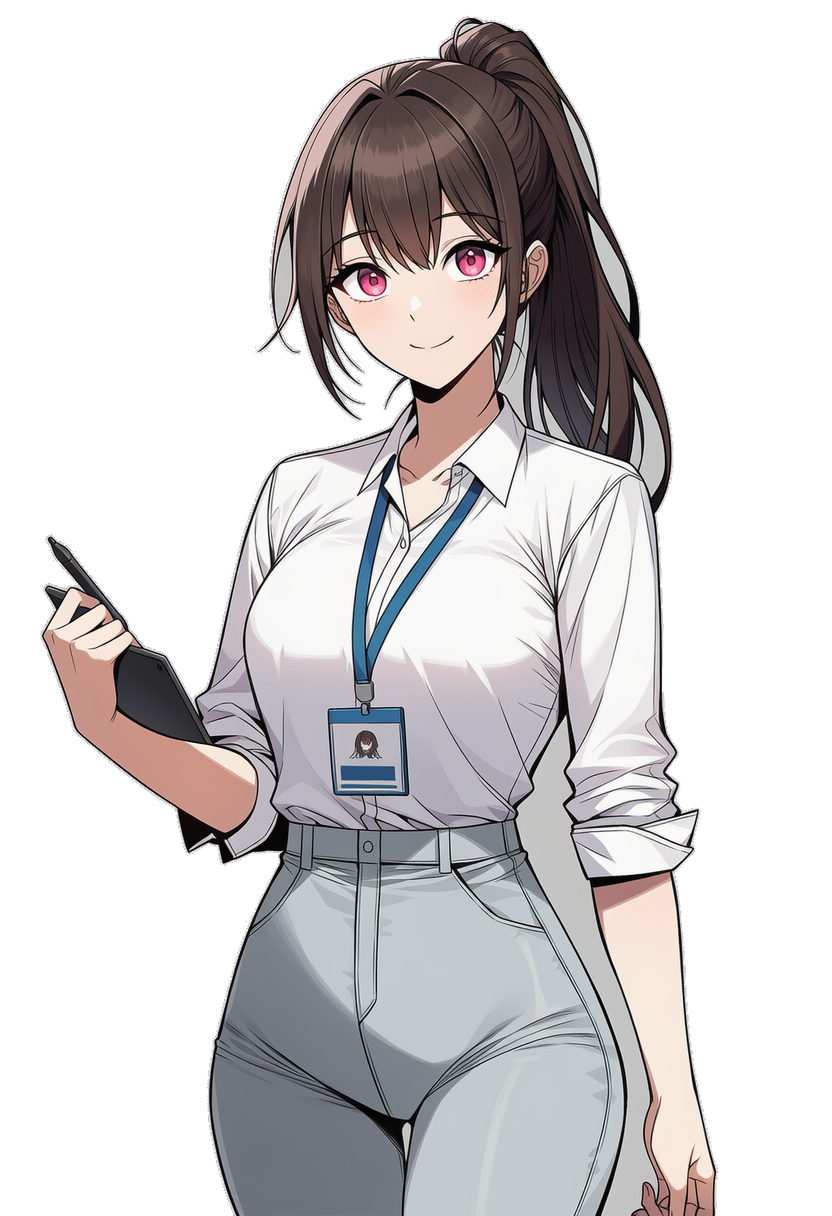
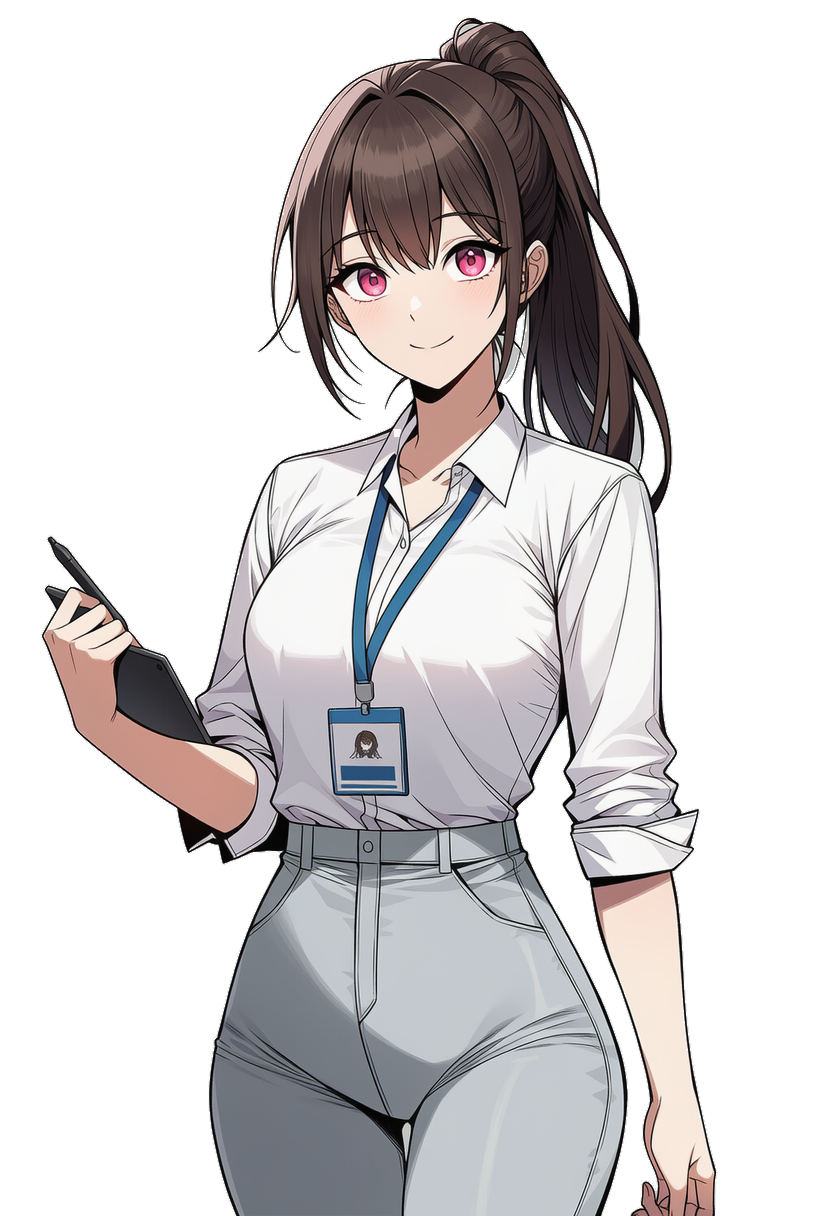
fix: clean enclosed character cutout backgrounds

diff --git a/docs/system/image-cutout-pipeline.md b/docs/system/image-cutout-pipeline.md
@@ -27,6 +27,7 @@ npm run art:cutout:verify
 - `preserve-rgb`와 원본의 RGB 전수 비교
 - 런타임의 불투명 전경과 원본 RGB 전수 비교
 - SD 흰 종이 테두리의 지정 좌표 보존
+- 머리카락 내부 배경 지정 좌표의 완전 투명 여부
 - 투명 배경과 전경 경계 존재
 
 전체 `npm run verify`에도 누끼 검증이 포함된다.
@@ -49,6 +50,8 @@ output/cutout-qa/<asset-id>.png
 전체 이미지에서 특정 회색이나 흰색을 지우지 않는다. 좌우 캔버스 가장자리에서 배경색 모델을 만들고, 가장자리와 연결된 영역만 배경으로 분류한다. 이 방식은 흰 셔츠, 회색 바지, 피부, 눈의 흰자와 SD의 흰 종이 테두리를 보호한다.
 
 캐릭터가 캔버스 하단까지 이어지므로 하단 픽셀은 배경색 학습에 사용하지 않는다. 느린 그라데이션은 인접 픽셀 변화량으로 추적하고, 선화나 종이 테두리처럼 색 변화가 큰 경계에서는 추적을 멈춘다.
+
+머리카락에 완전히 둘러싸여 가장자리 flood-fill이 닿지 않는 배경은 캐릭터별 `backgroundSeeds`로 분리한다. 배경 그라데이션이 기본 허용치를 벗어난 곳만 `force: true`를 사용하며, 지정점과 비슷한 색이 연결된 영역에서만 확장한다. 기본 원화에는 넓은 페더 탐색과 확정 배경 알파 잠금을 적용해 회색 매트 프린지를 제거하고, SD의 흰 종이 테두리에는 이 설정을 적용하지 않는다.
 
 ## 수동 검수
 
